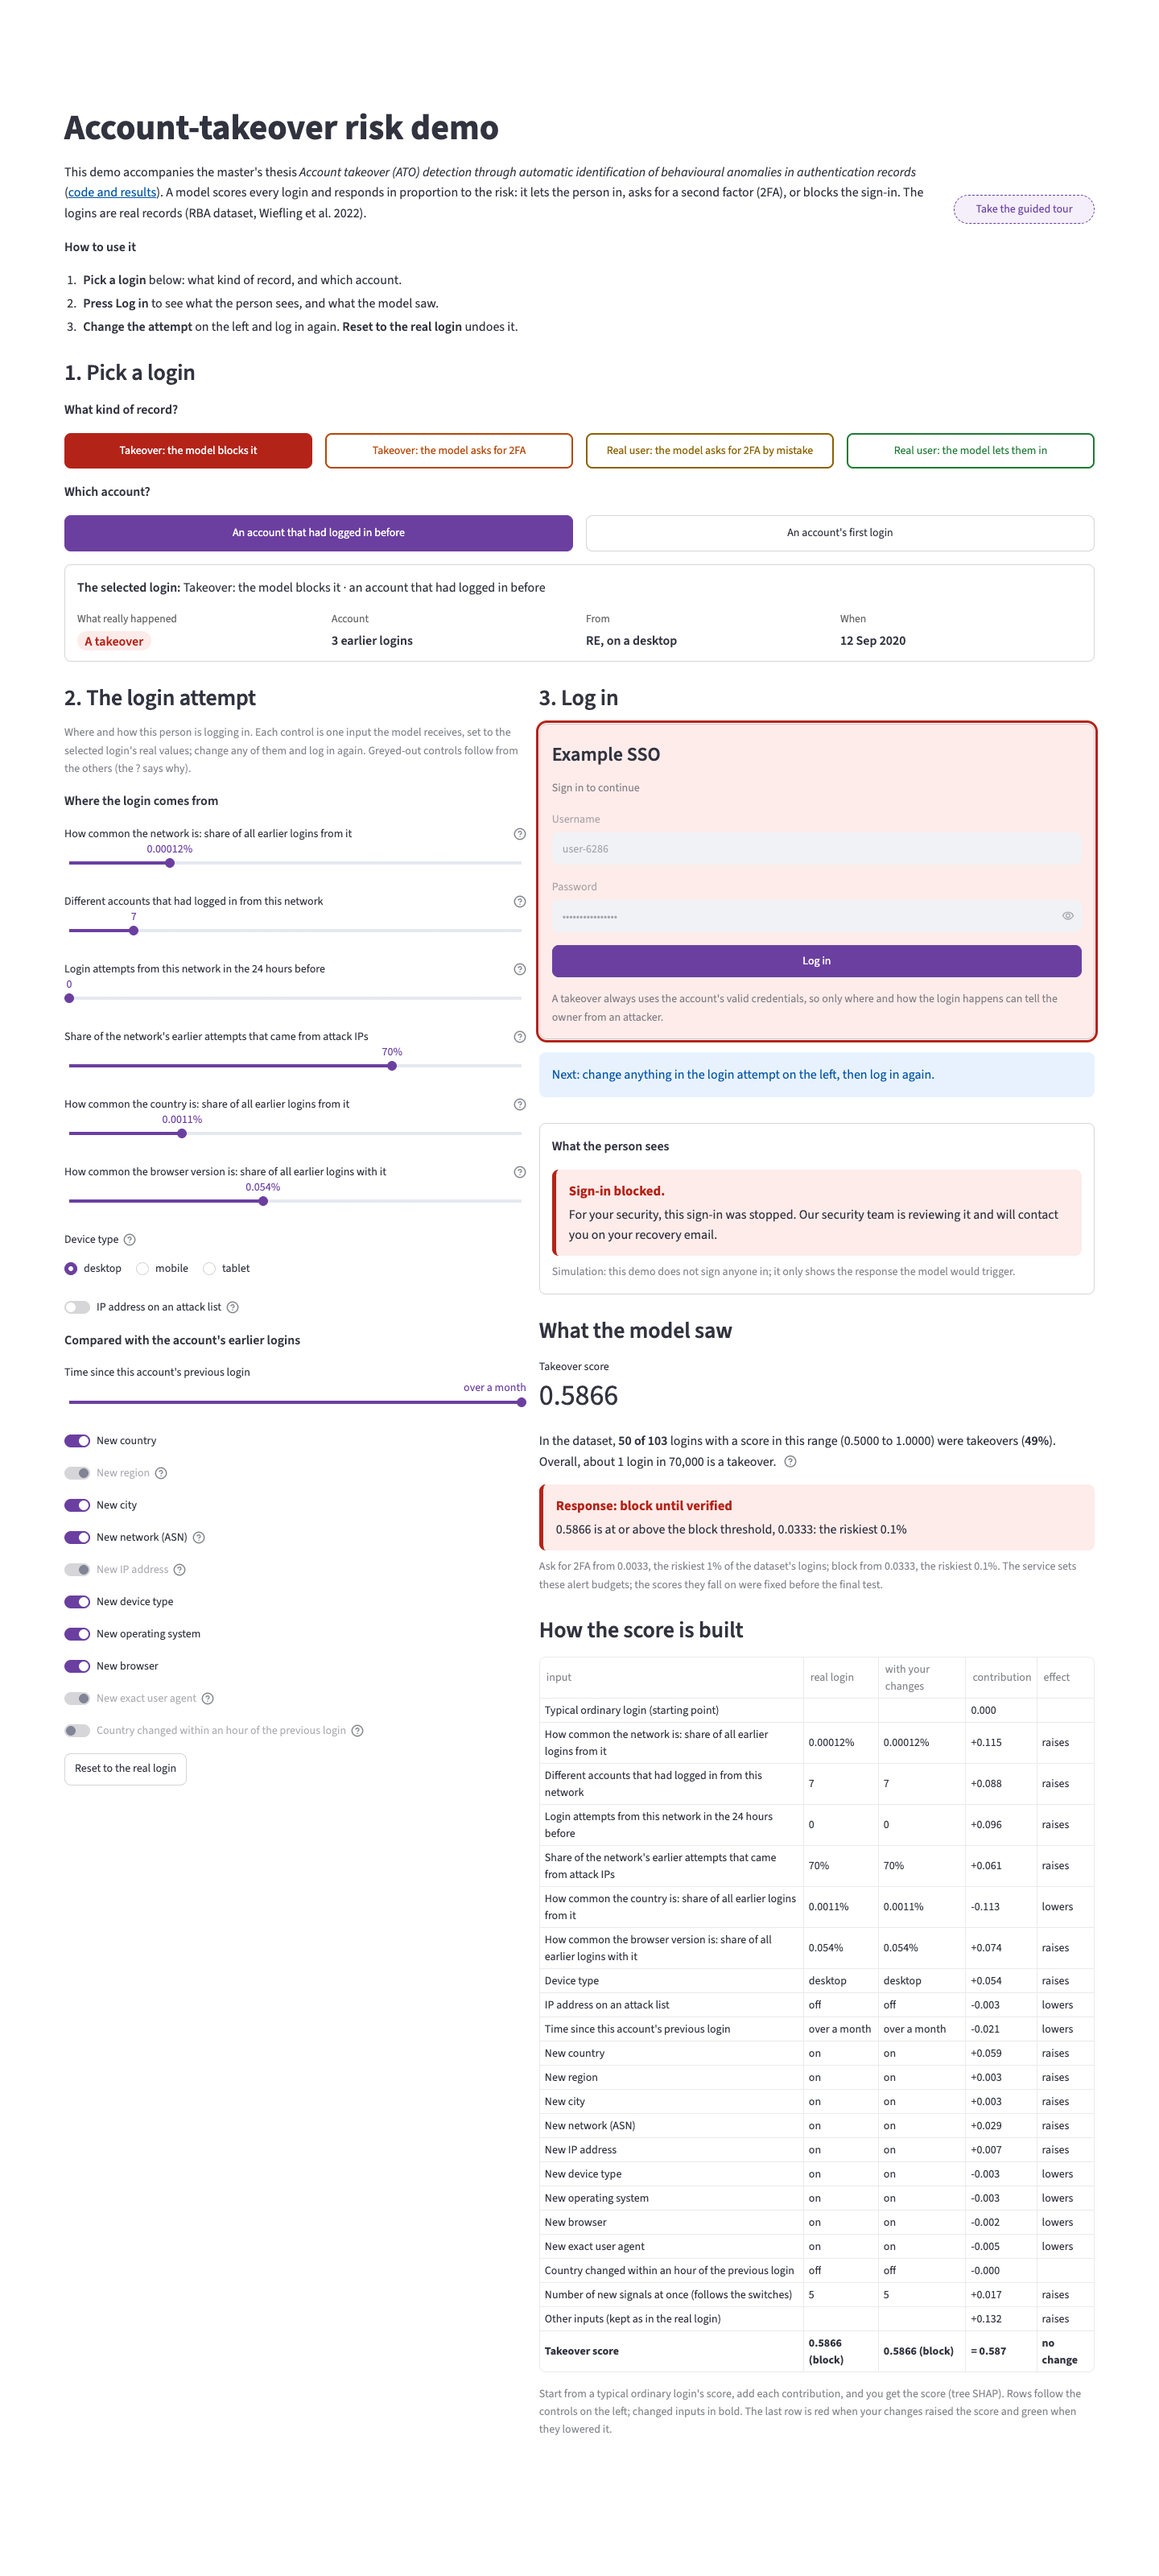
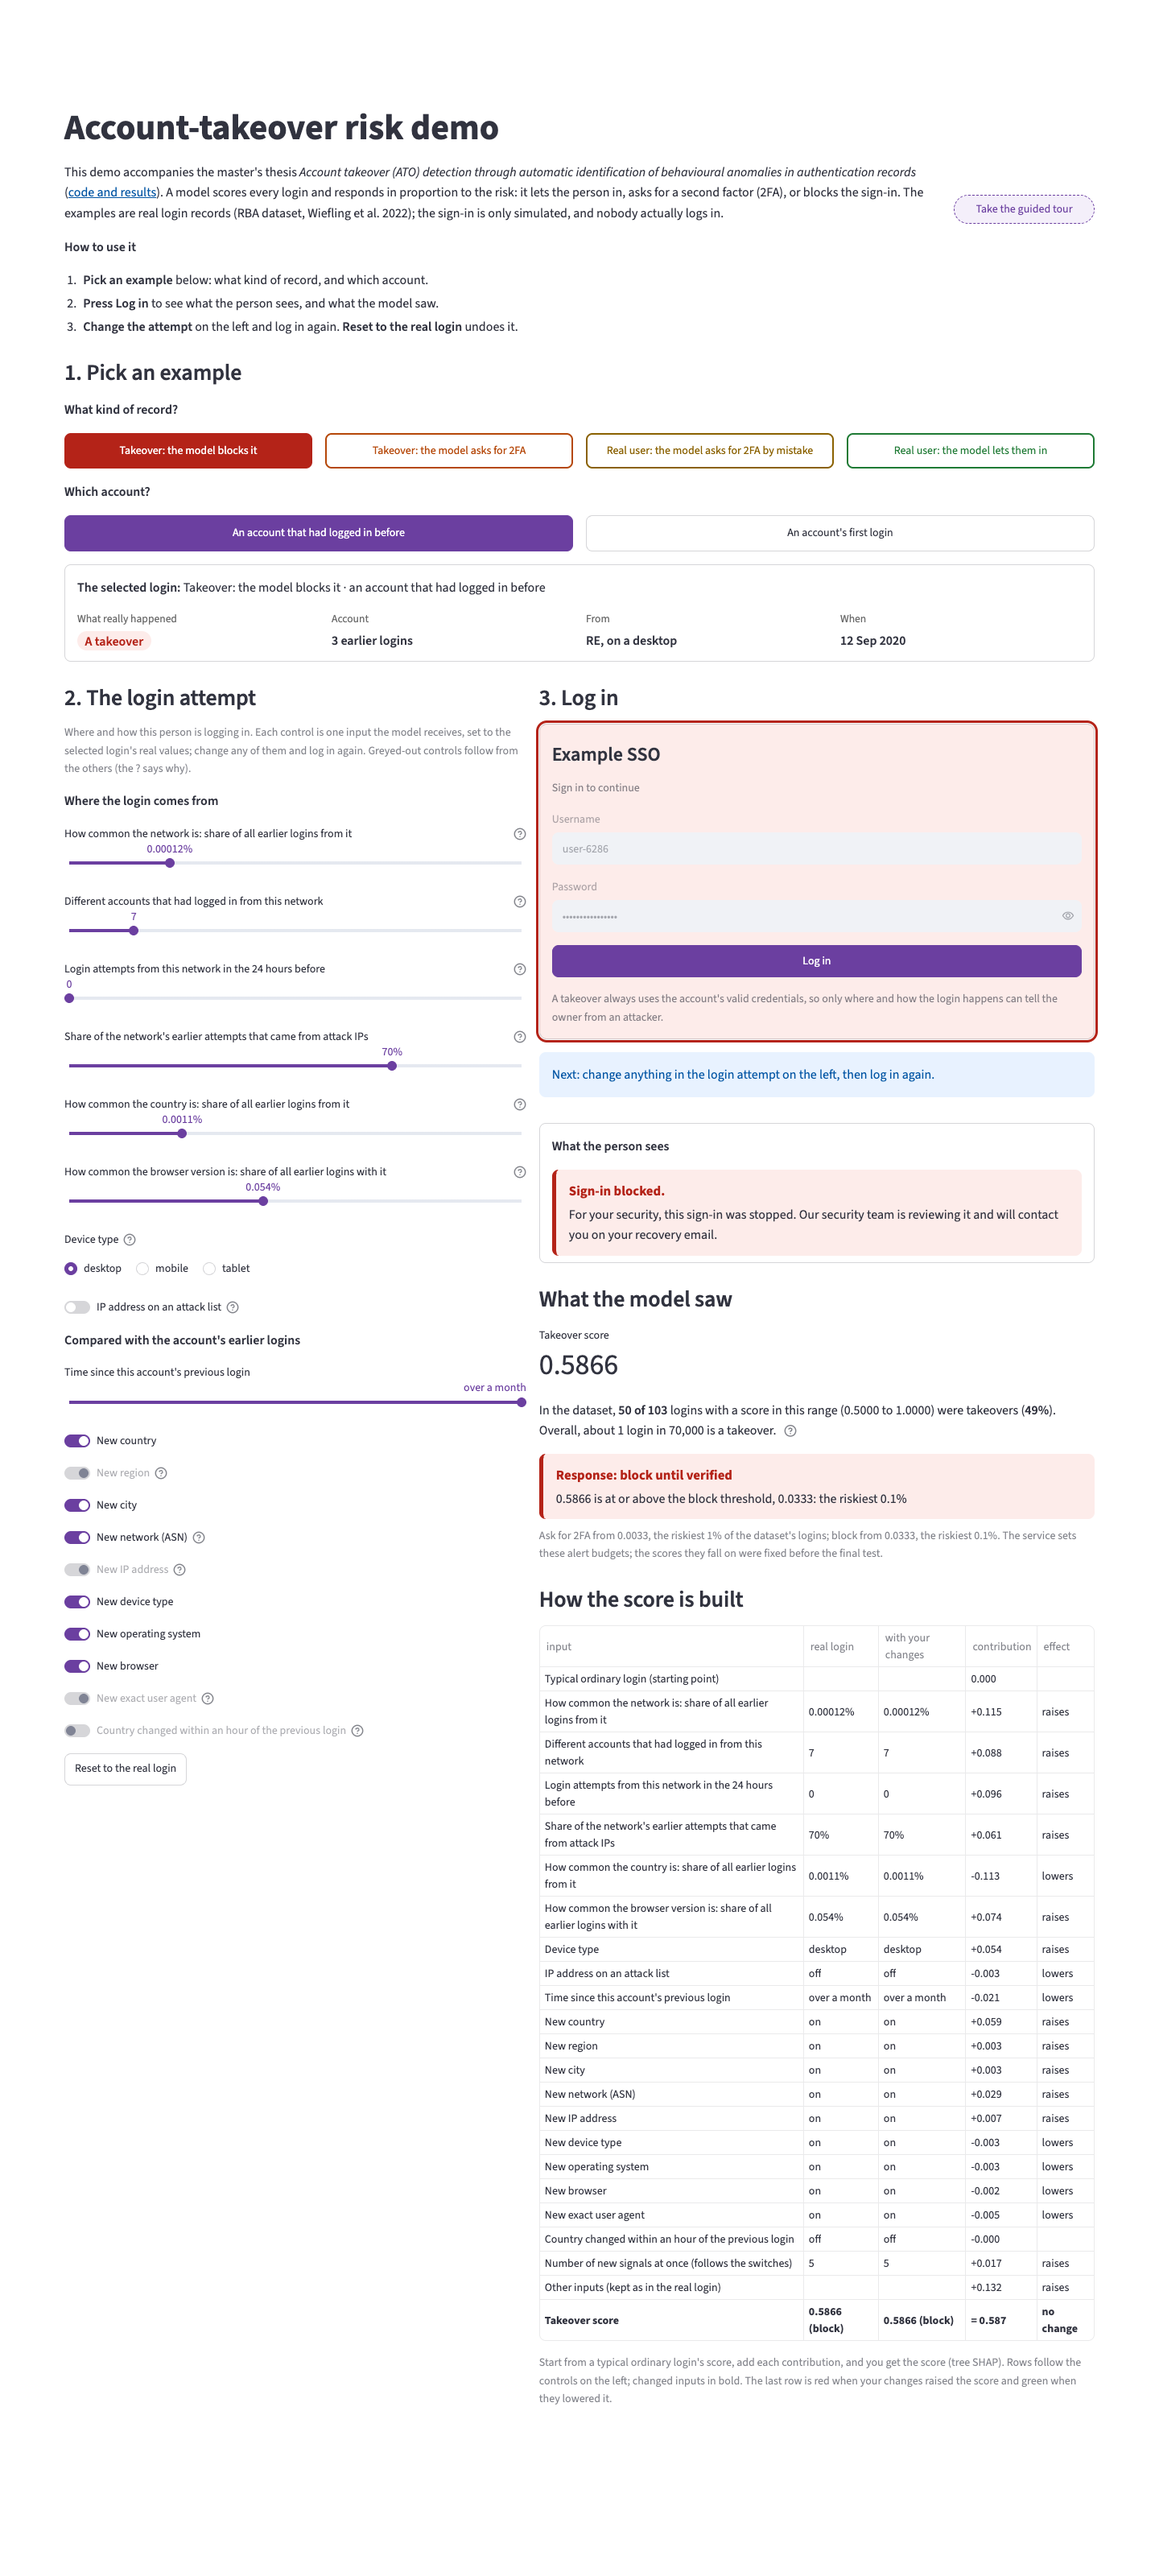
docs: call the demo's logins examples and move the simulation disclaimer to the introduction

diff --git a/notebooks/7-deploy/app.py b/notebooks/7-deploy/app.py
@@ -168,7 +168,6 @@ RED, ORANGE, YELLOW, GREEN, GREY = (
 )
 TIER_COLOR = {"review / block": RED, "step-up": ORANGE, ALLOW: GREEN}
 KIND_COLOR = {"block": RED, "2fa": ORANGE, "missed": GREY, "false-alarm": YELLOW, "ordinary": GREEN}
-SIMULATION = "Simulation: this demo does not sign anyone in; it only shows the response the model would trigger."
 
 
 @dataclass(frozen=True)
@@ -183,7 +182,7 @@ class TourStep:
 TOUR = (
     TourStep(
         "tour-kinds",
-        "1. Pick a login",
+        "1. Pick an example",
         "Choose what kind of login to test: a takeover the model blocks or asks for 2FA, a real user asked for "
         "2FA by mistake, or a real user let in. Then choose the account: one that had logged in before, or its "
         "first login.",
@@ -334,14 +333,15 @@ def introduction() -> None:
     text.markdown(
         f"This demo accompanies the master's thesis *{THESIS_EN}* ([code and results]({REPOSITORY})). A model "
         "scores every login and responds in proportion to the risk: it lets the person in, asks for a second "
-        "factor (2FA), or blocks the sign-in. The logins are real records (RBA dataset, Wiefling et al. 2022)."
+        "factor (2FA), or blocks the sign-in. The examples are real login records (RBA dataset, Wiefling et "
+        "al. 2022); the sign-in is only simulated, and nobody actually logs in."
     )
     button.button(
         "Take the guided tour", key="tour-start", on_click=_tour_go, args=(0,), width="stretch"
     )
     st.markdown(
         "**How to use it**\n"
-        "1. **Pick a login** below: what kind of record, and which account.\n"
+        "1. **Pick an example** below: what kind of record, and which account.\n"
         "2. **Press Log in** to see what the person sees, and what the model saw.\n"
         "3. **Change the attempt** on the left and log in again. **Reset to the real login** undoes it."
     )
@@ -830,7 +830,6 @@ def response_screen(tier: str, attempt: int) -> None:
                 "For your security, this sign-in was stopped. Our security team is reviewing it and will "
                 "contact you on your recovery email.",
             )
-        st.caption(SIMULATION)
 
 
 def system_view(det: Detector, login: pl.DataFrame, edited: pl.DataFrame, score: float) -> None:
@@ -1025,7 +1024,7 @@ def main() -> None:
         st.info("No logins to show.")
         st.stop()
     introduction()
-    st.subheader("1. Pick a login")
+    st.subheader("1. Pick an example")
     with st.container(key="tour-kinds"):
         login = pick_scenario(counts, picks)
     left, right = st.columns([1, 1.2])

diff --git a/tests/inference/test_app.py b/tests/inference/test_app.py
@@ -305,7 +305,8 @@ def test_the_2fa_screen_takes_a_code_as_a_simulation(
     boxes = " ".join(m.value for m in app.markdown if "border-left" in m.value)
     assert "Verification failed." in boxes, "an attacker without the phone is blocked"
     assert "Identity verified." not in boxes
-    assert any(c.value.startswith("Simulation:") for c in app.caption)
+    intro = " ".join(m.value for m in app.markdown)
+    assert "the sign-in is only simulated" in intro, "the disclaimer is on the page"
 
 
 def test_the_card_reacts_to_the_response(data_dir: Path, monkeypatch: pytest.MonkeyPatch) -> None:

diff --git a/notebooks/7-deploy/README.md b/notebooks/7-deploy/README.md
@@ -7,8 +7,8 @@ Issue [#8](https://github.com/modsiw-mona/anomaly_detection_ato/issues/8) (CRISP
 
 - **The page explains itself.** It opens with what the demo is (the thesis title, with a link to this
   repository) and what the model gives each login (a takeover score and a proportional response), in two
-  sentences, then three short steps; *Take the guided tour* sits next to them. The page is numbered: 1. pick a
-  login, 2. the login attempt, 3. log in.
+  sentences (with a one-line disclaimer that the sign-in is only simulated), then three short steps; *Take the
+  guided tour* sits next to them. The page is numbered: 1. pick an example, 2. the login attempt, 3. log in.
 - **Choose a real login, not a row number.** A row of buttons picks the kind of record, each label saying what
   it is and what the model did ("Takeover: the model blocks it", "Real user: the model asks for 2FA by mistake",
   and so on), each in the colour of the outcome: red block, orange 2FA, yellow false alarm, green let in. A second
@@ -54,9 +54,9 @@ Issue [#8](https://github.com/modsiw-mona/anomaly_detection_ato/issues/8) (CRISP
   through turns it green. Below, the message the person would see, as a real service shows it: *Welcome back*;
   *Sign-in on hold*, asking to confirm with Face ID or a code, with the whole flow (enter any 6 digits and
   Verify: *Identity verified*; switch on "Simulate an attacker", who does not have the phone: *Verification
-  failed*, the sign-in is blocked); or *Sign-in blocked*, the security team reviewing it. All marked as a
-  simulation. Below that, what the model saw. Changing any input asks to log in again, so each response belongs
-  to the attempt shown.
+  failed*, the sign-in is blocked); or *Sign-in blocked*, the security team reviewing it. The introduction says
+  the sign-in is only simulated. Below that, what the model saw. Changing any input asks to log in again, so
+  each response belongs to the attempt shown.
 - **Feedback at every step.** A hint under the card always says what to do next (press Log in; change the attempt
   and log in again). A short notice confirms each login, another flags at once that the attempt changed, and the
   button then reads *Log in again*. After each login the page scrolls to the response, or, when the attempt

diff --git a/README.md b/README.md
@@ -77,7 +77,7 @@ A local [Streamlit](https://streamlit.io/) app scores a login with the selected 
     make demo
     ```
 
-The page is a simulated sign-in. Pick a login (a takeover blocked or asked for 2FA, a real user asked for 2FA by
+The page is a simulated sign-in: nobody actually logs in. Pick an example (a takeover blocked or asked for 2FA, a real user asked for 2FA by
 mistake or let in; a returning account or its first login); each is a real test login. The left side is the login
 attempt: every control is one input of the model, set to that login's value. Press **Log in** to see the screen
 the person would see (let in, asked to confirm it is them, or blocked) and what the model saw (the score, the

diff --git a/docs/demo.md b/docs/demo.md
@@ -8,7 +8,7 @@ person would see it (let in, asked to confirm it is them, or blocked), and below
 
 ## How to use it
 
-1. **Pick a login:** the kind of record (a takeover the model blocks or asks for 2FA, a real user asked for 2FA
+1. **Pick an example:** the kind of record (a takeover the model blocks or asks for 2FA, a real user asked for 2FA
    by mistake, a real user let in) and the account (one that had logged in before, or its first login). A card
    shows the selected login at a glance. Each is a real test login.
 2. **Look at the login attempt** on the left: every control is one input the model receives. Each slider's "?"
